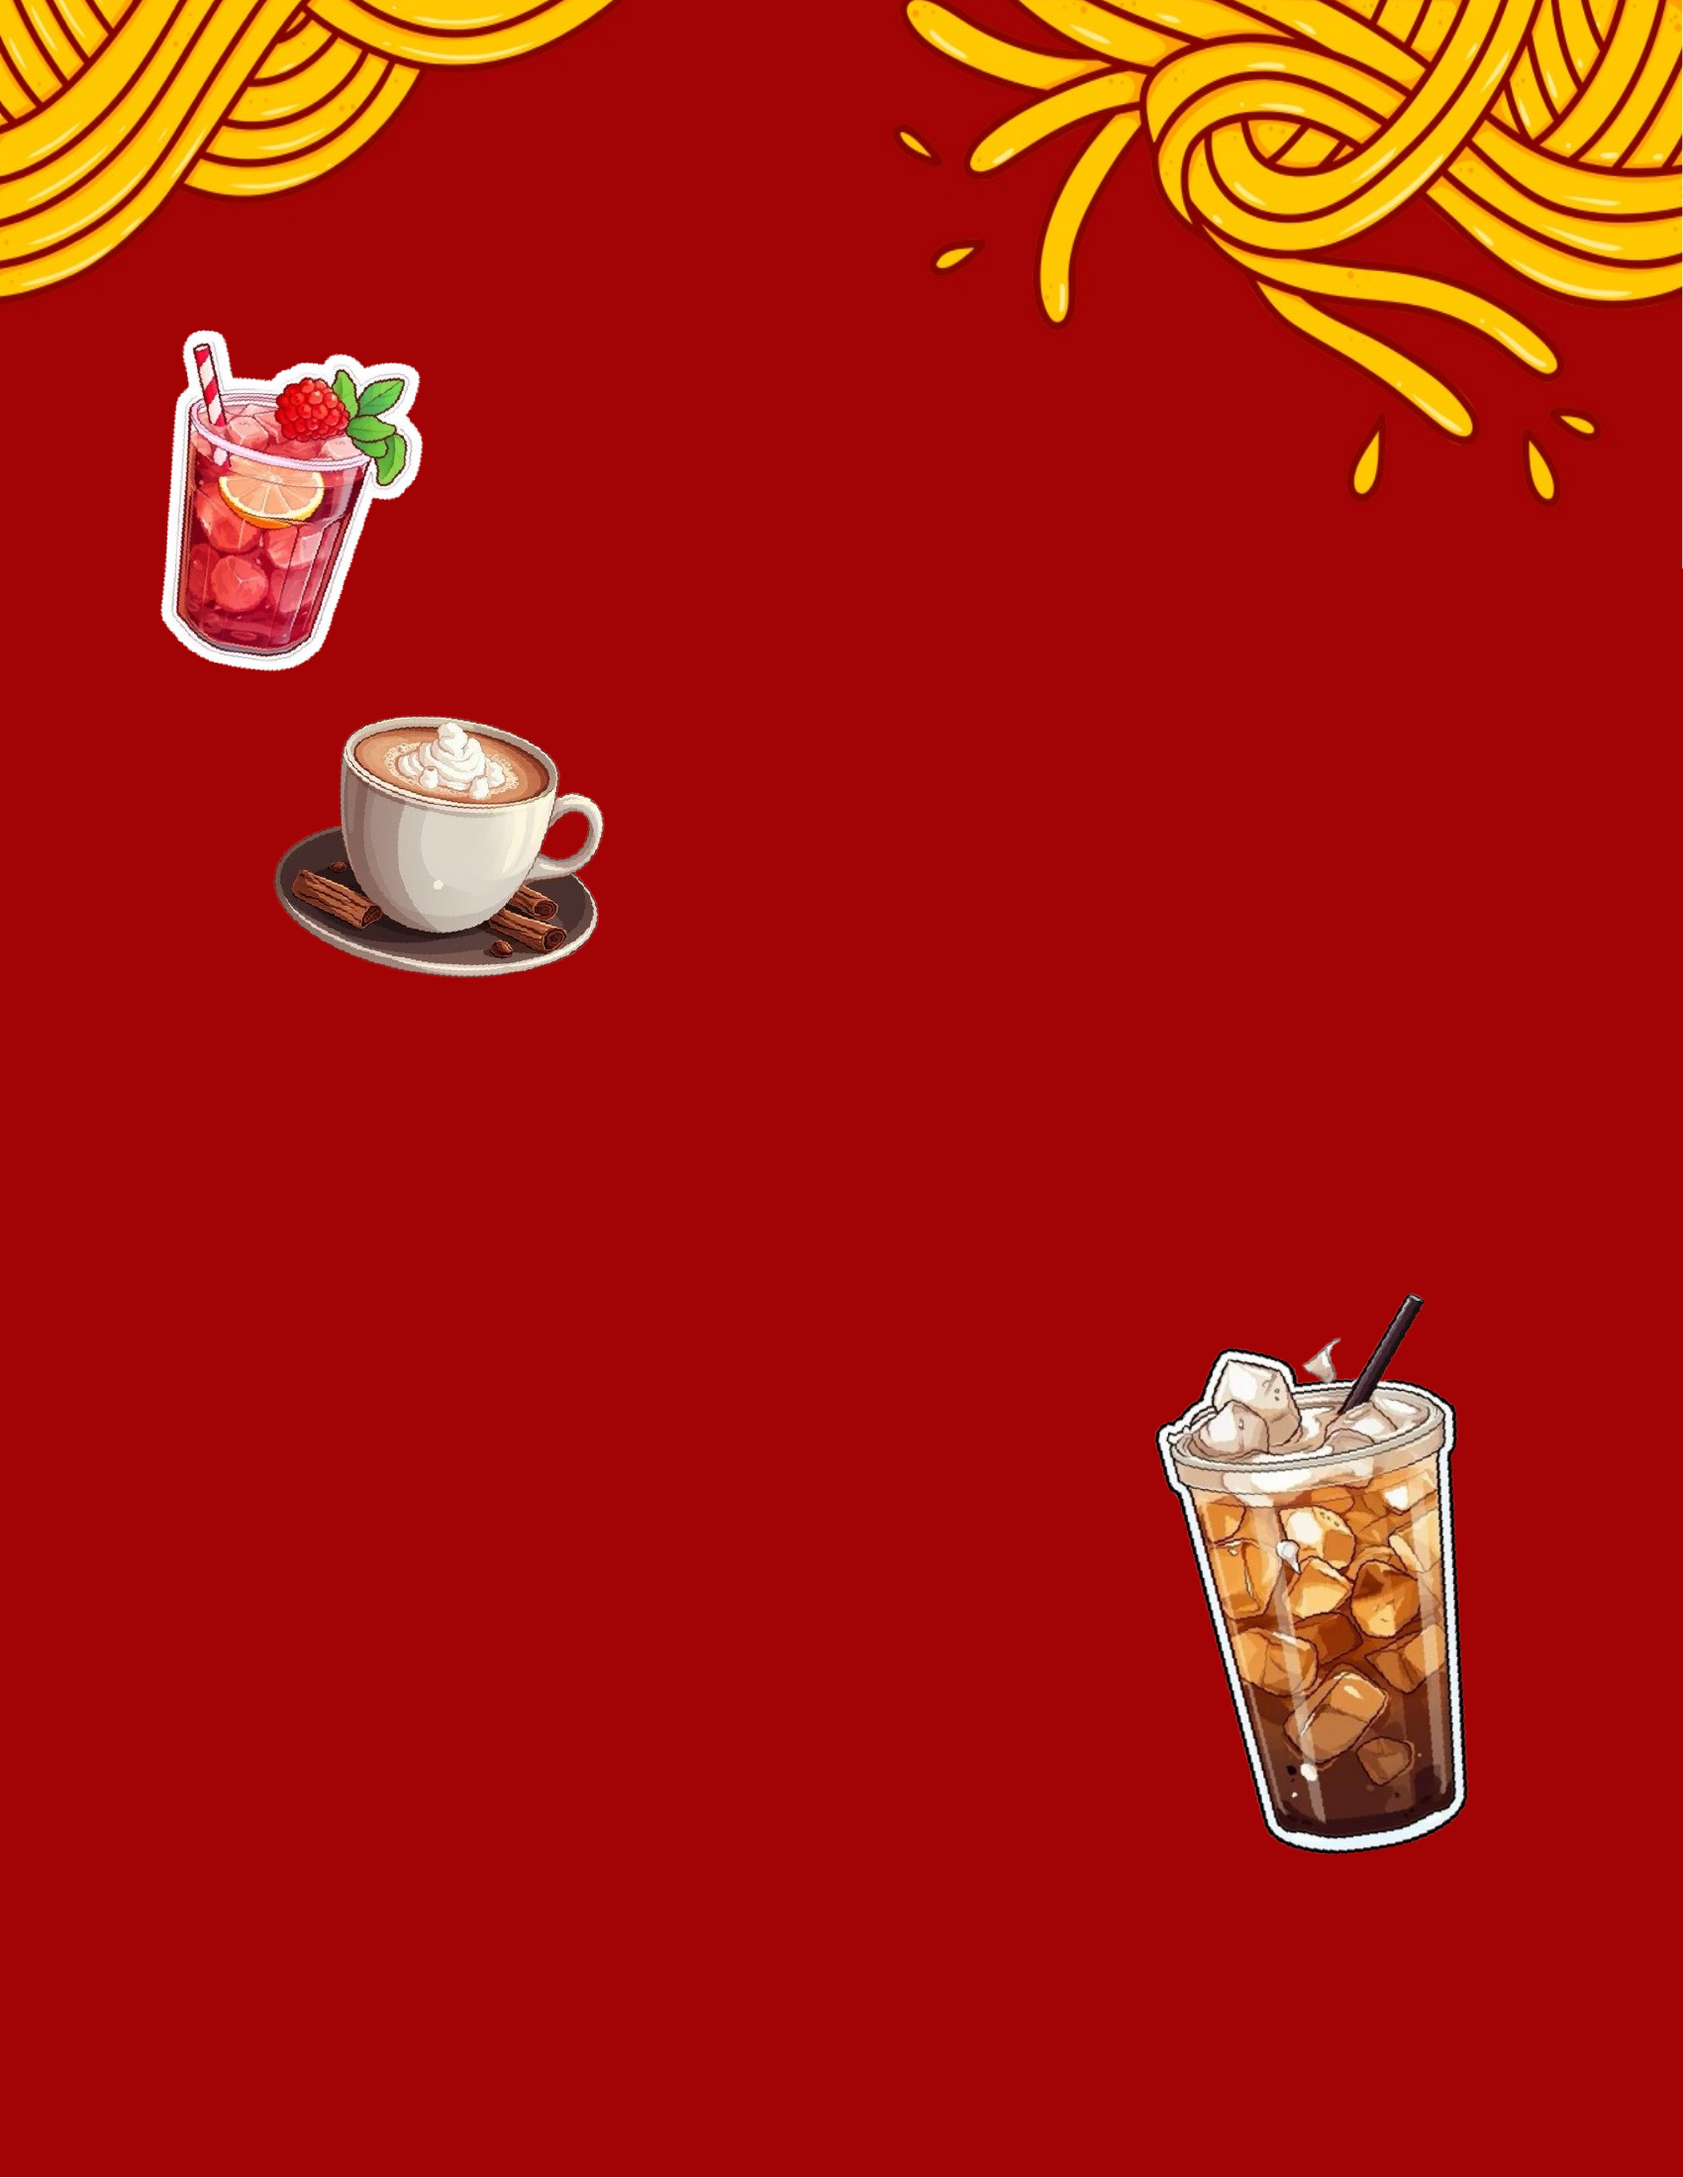
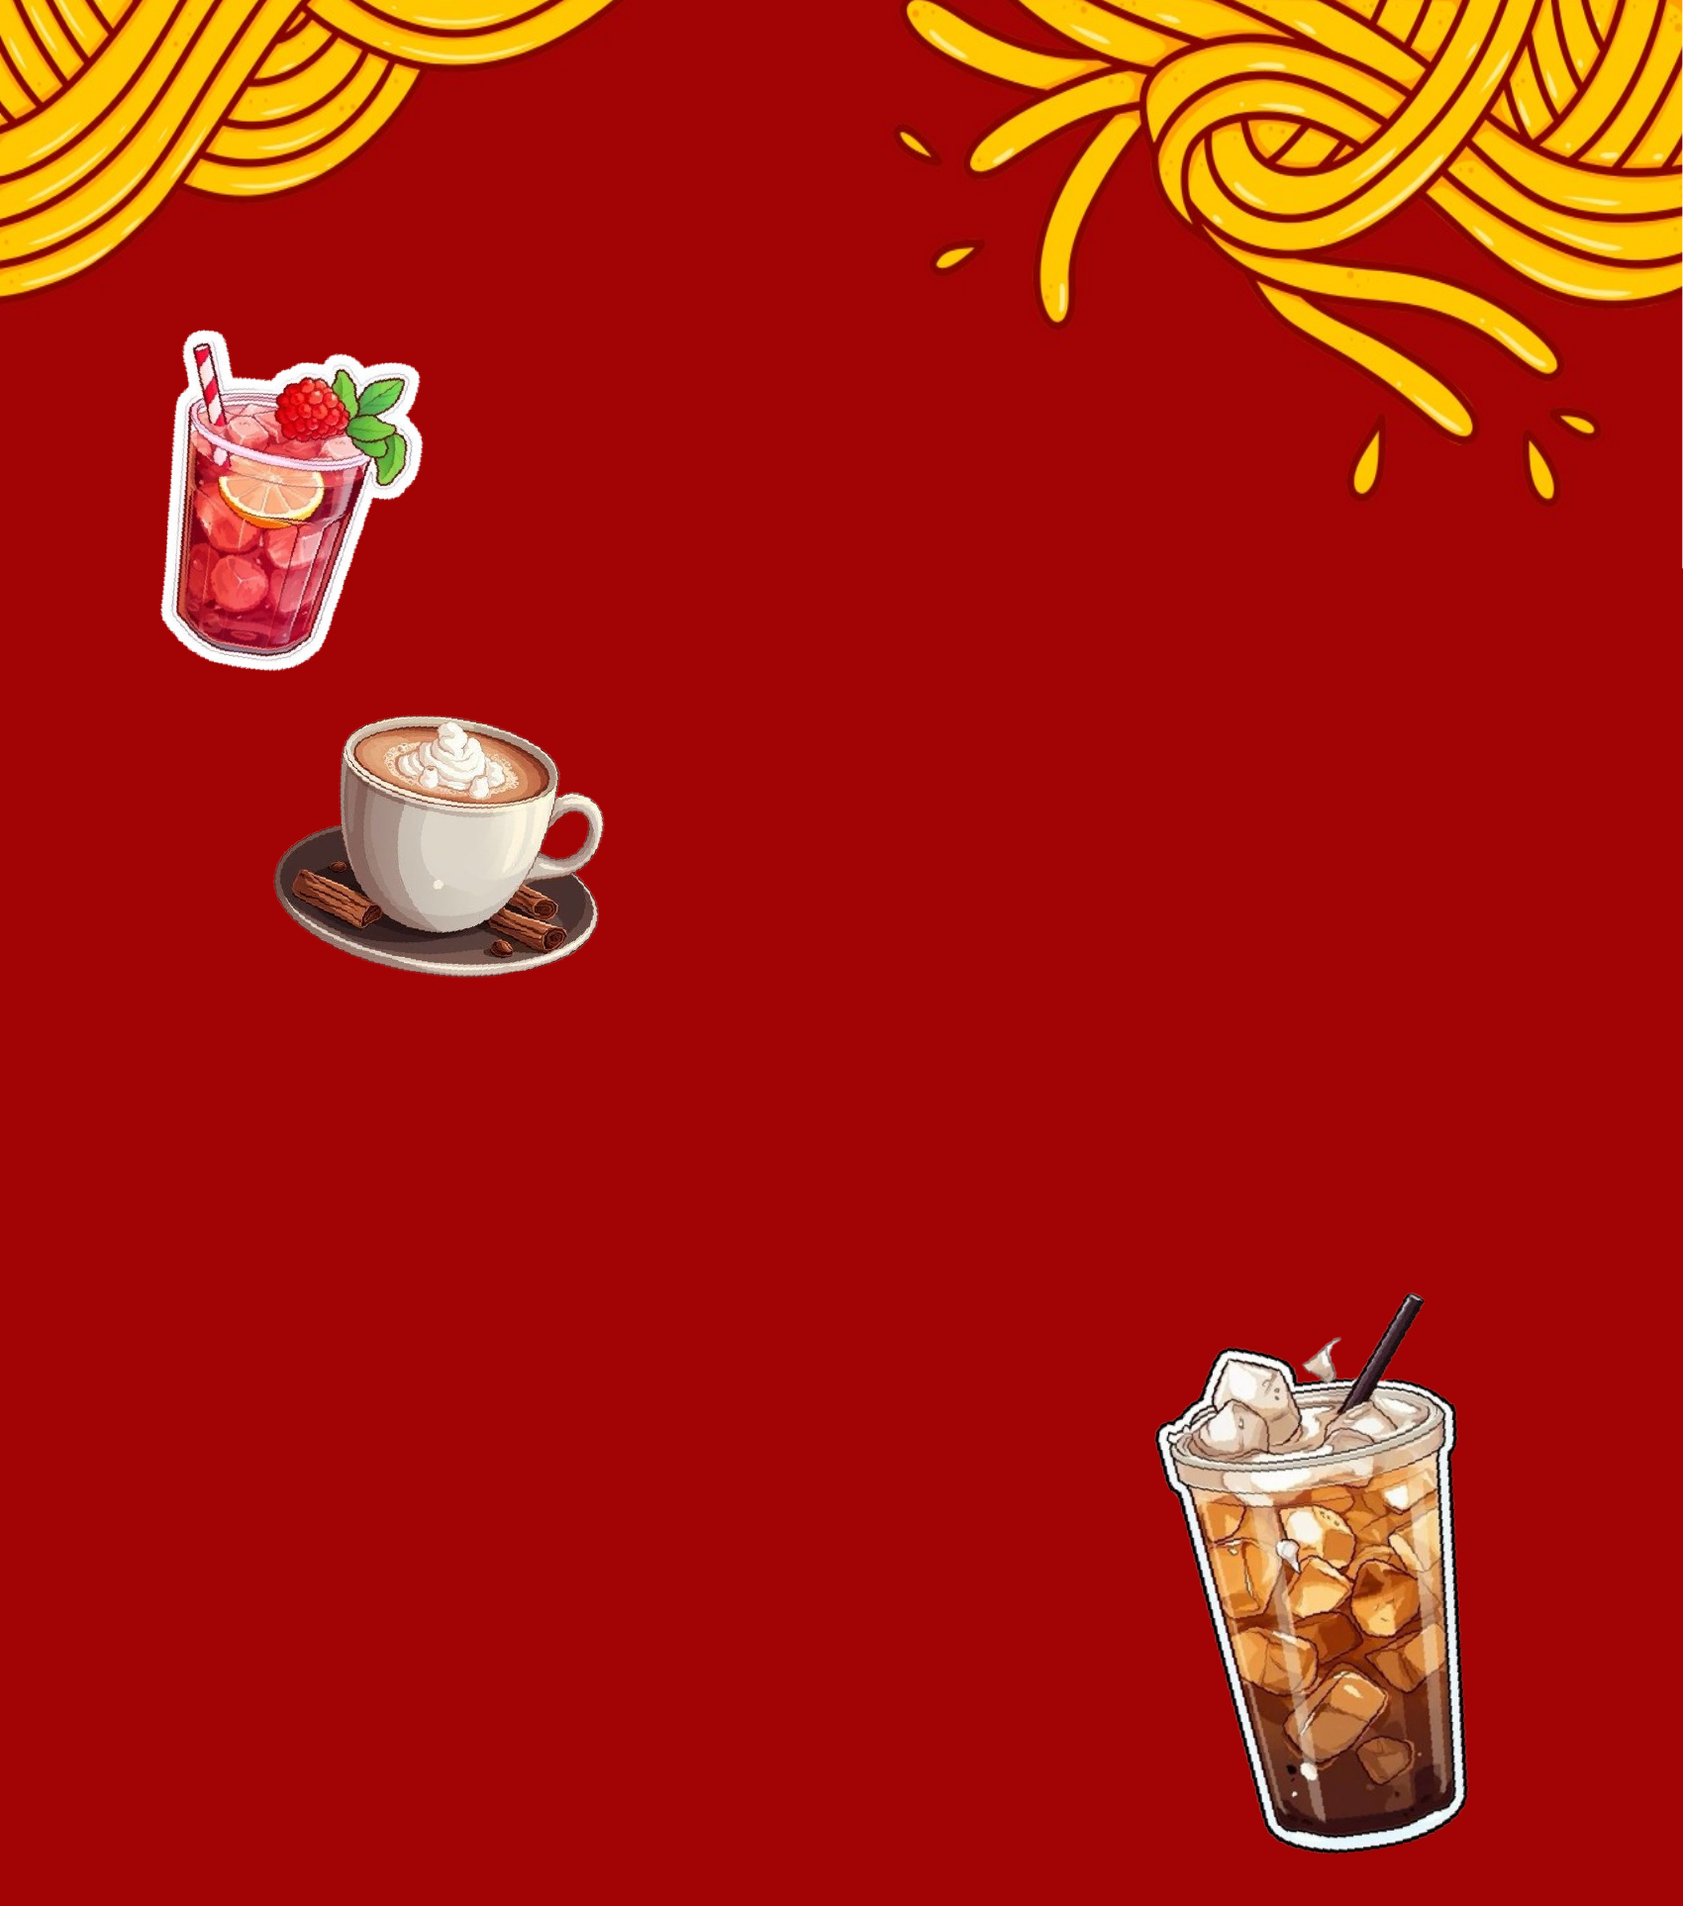
ubah ukuran gambar bg minuman

diff --git a/css/style.css b/css/style.css
@@ -351,7 +351,7 @@ button#btn-close{
 .kontak{
     background-color: #4a0606;
     color: #fff;
-    padding-top: 2em;
+    padding-top: 3em;
     padding-bottom: 2em;
 }
 .kontak-title h1{
